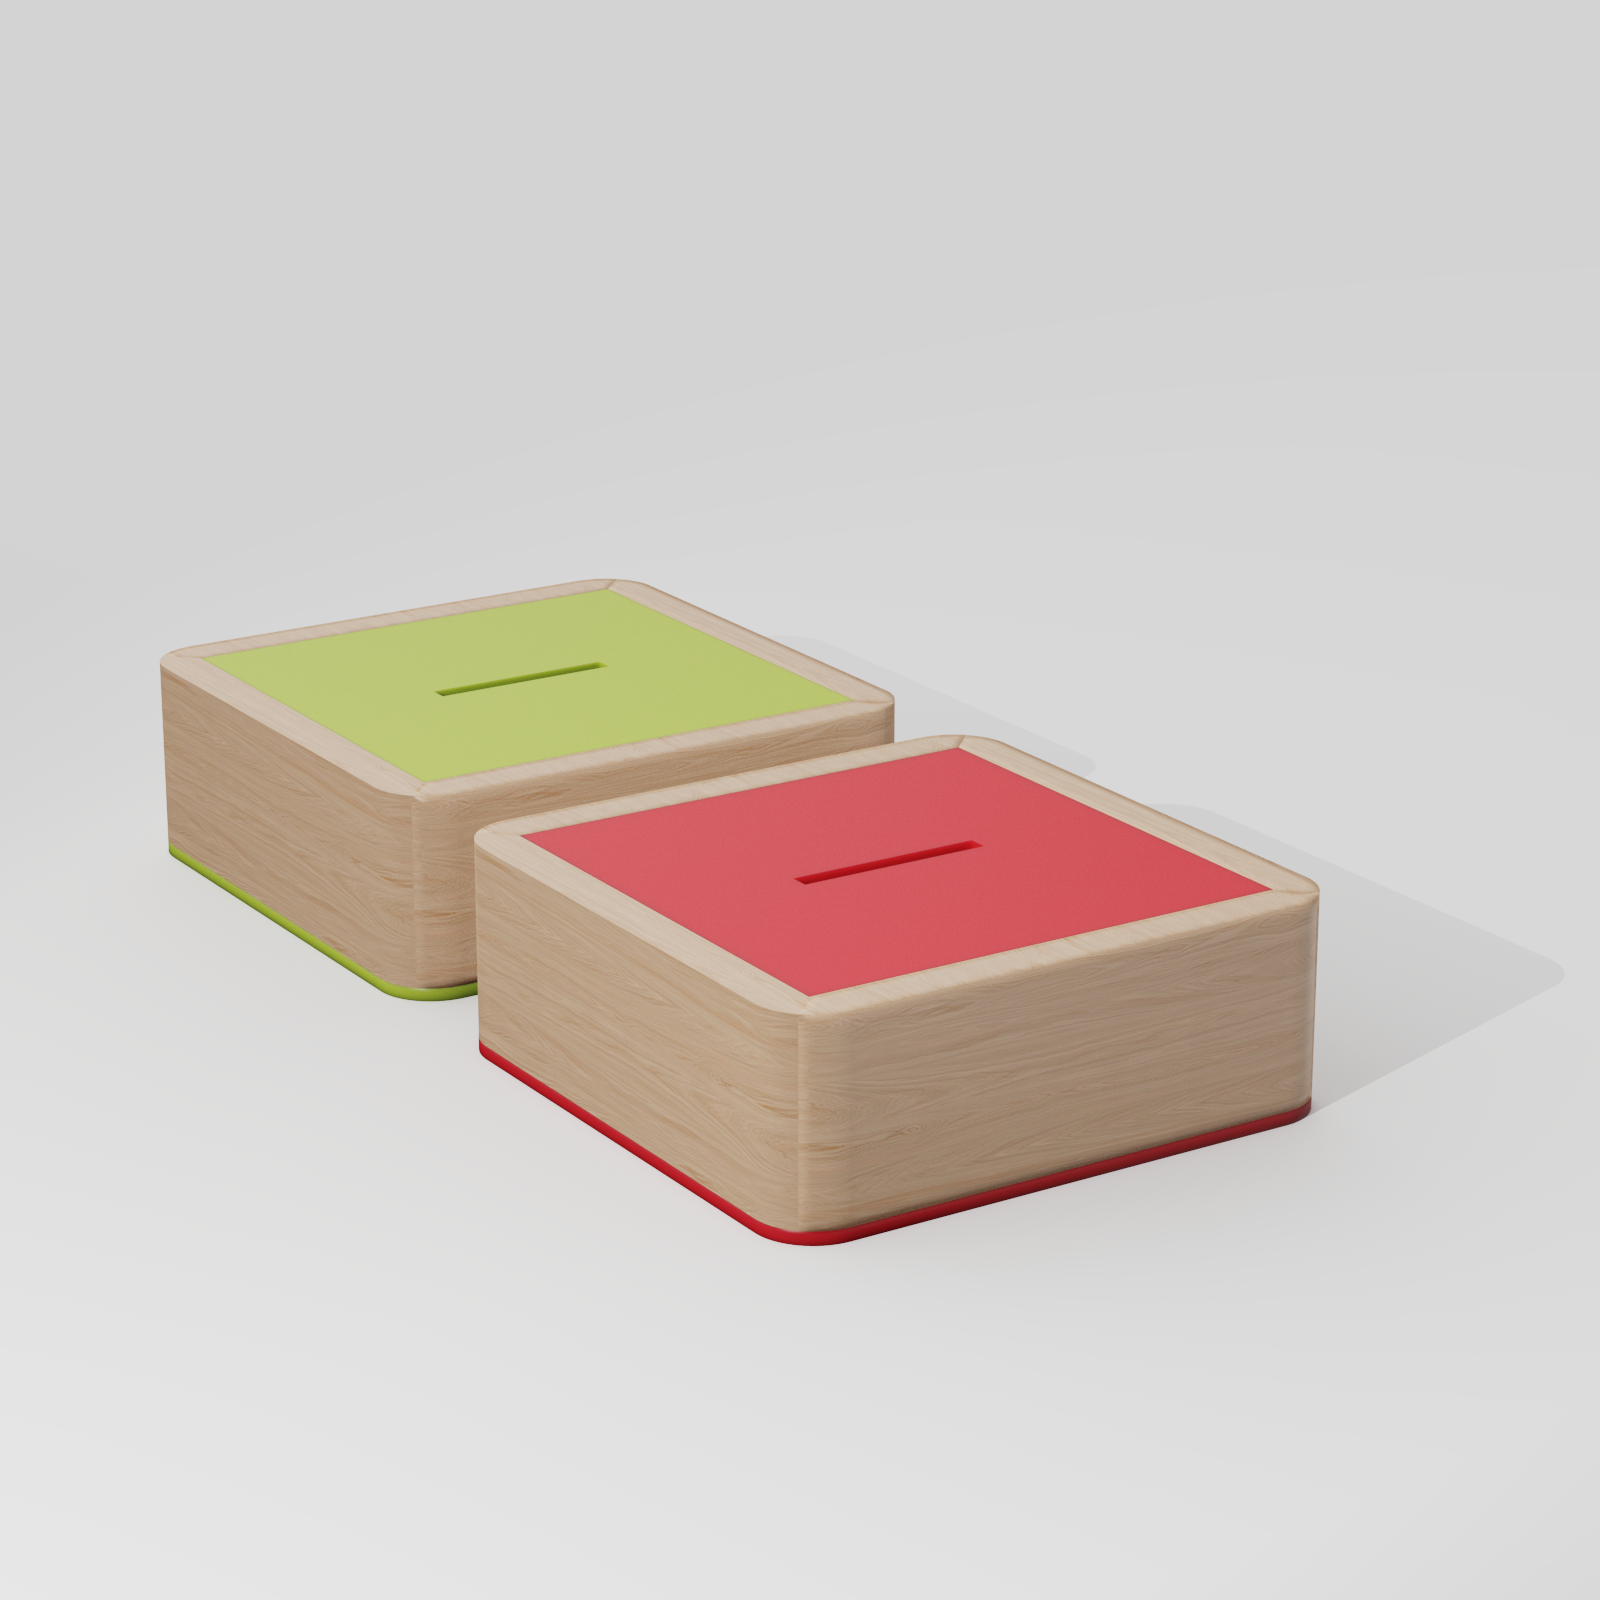
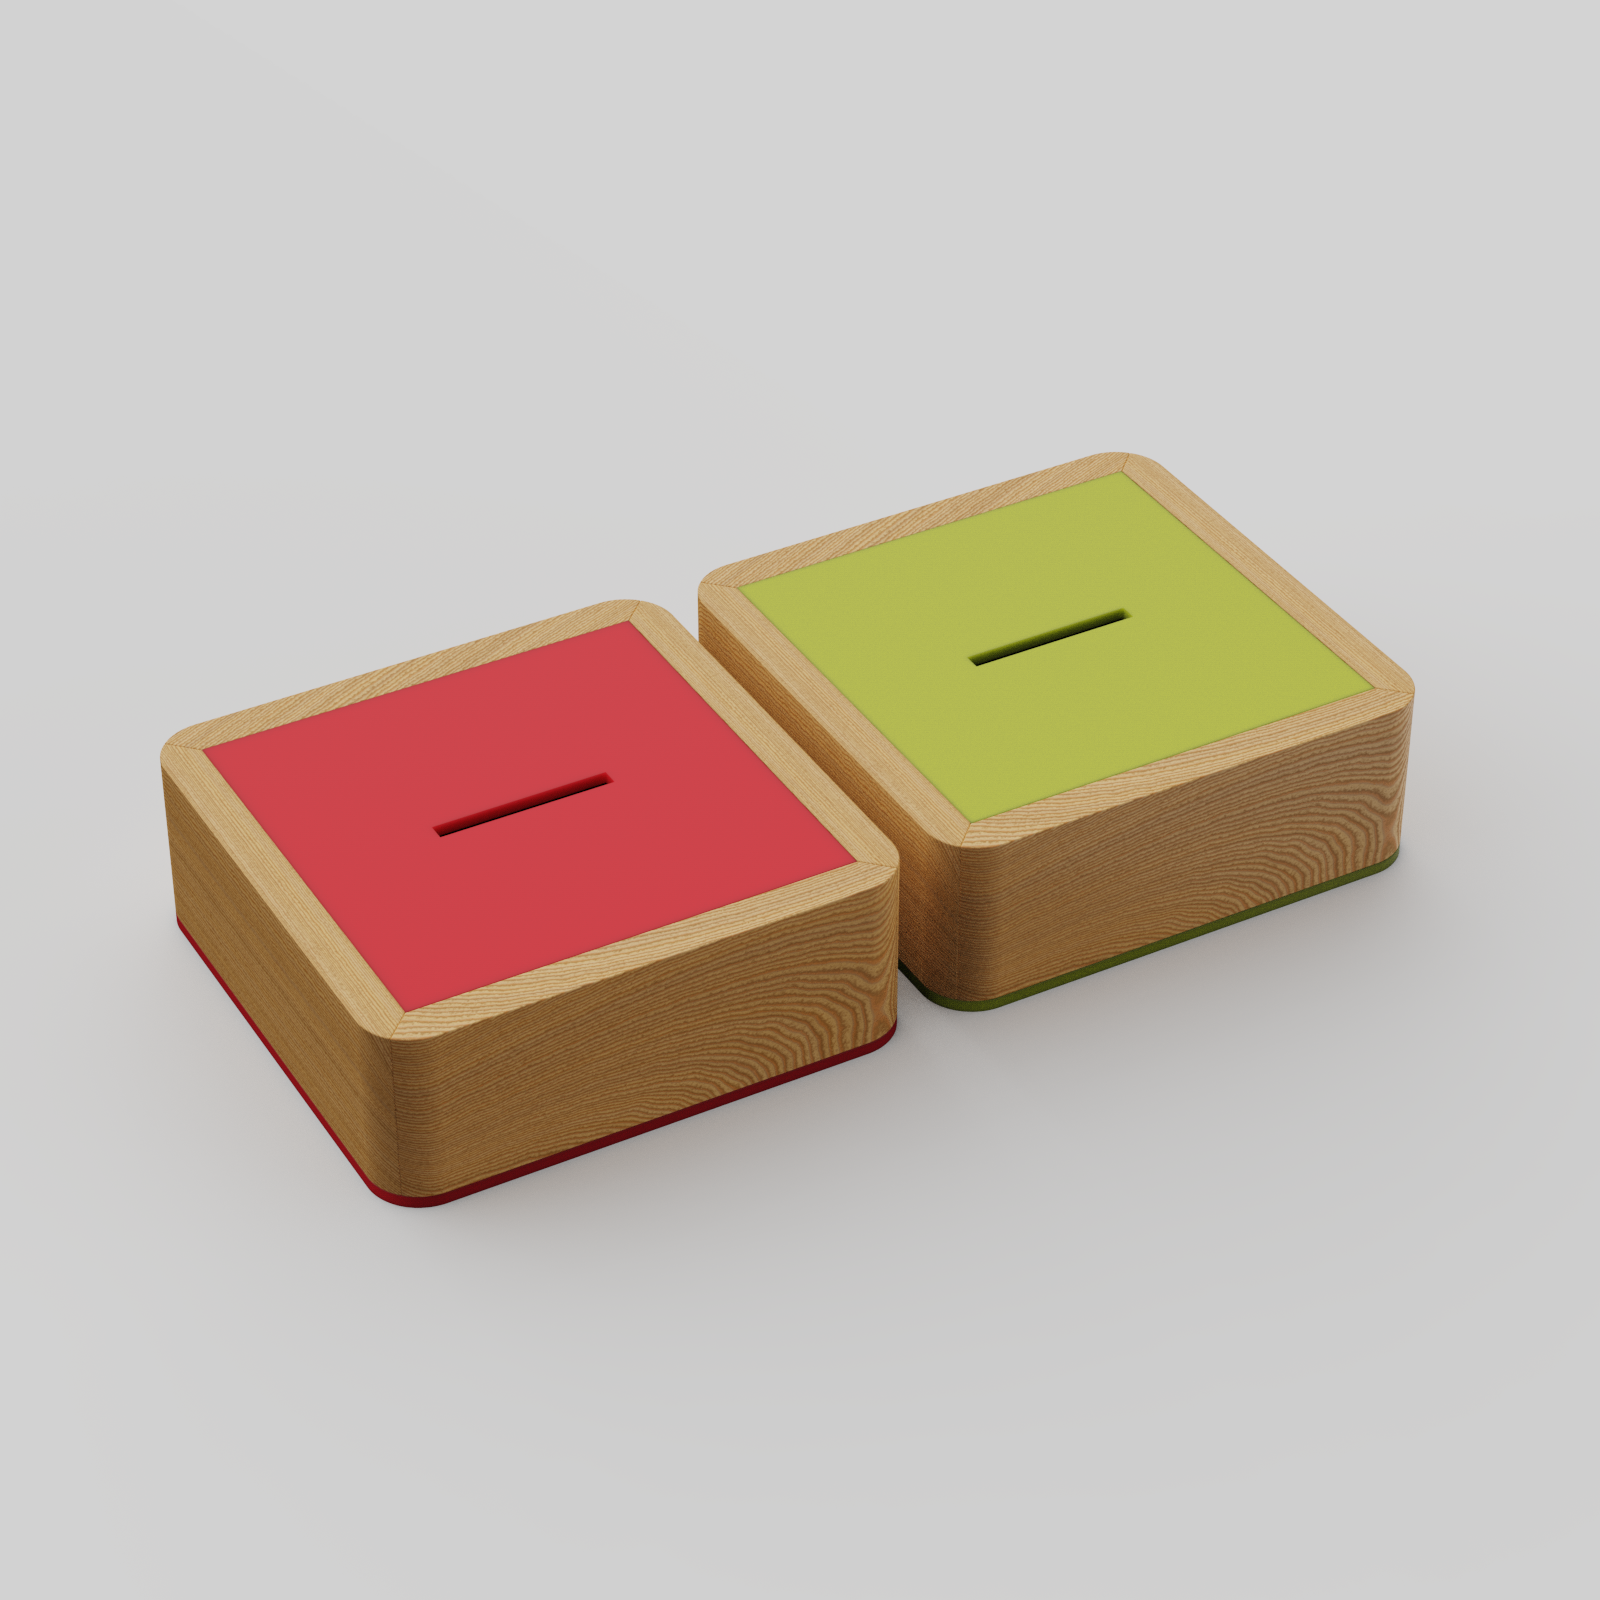
New projects

Changed region(s): [[0.0938, 0.2812, 0.9062, 0.8438]]

diff --git a/src/projects/hexa copy.jsx b/src/projects/hexa copy.jsx
@@ -1,0 +1,19 @@
+import React from "react";
+import ProjectLayout from '../components/ProjectLayout';
+
+export const metadata = {
+    id: "11",
+    slug: "display-bar",
+    title: "Display Bar",
+    category: "Product Design",
+    tags: ["Design Visualisation", "Product Design", "Lifestyle"],
+    year: "2026",
+    thumbnail: "/projects/display-bar/display-bar.png",
+    images: ["/projects/display-bar/display-bar.png", "/projects/display-bar/display-bar-1.png"],
+    description:
+        "Display Bar is a poster-hanging bar with lego blocks for hanging other items on top",
+};
+
+export default function FWD() {
+    return <ProjectLayout metadata={metadata} />;
+}

diff --git a/src/projects/hexa.jsx b/src/projects/hexa.jsx
@@ -1,0 +1,19 @@
+import React from "react";
+import ProjectLayout from '../components/ProjectLayout';
+
+export const metadata = {
+    id: "9",
+    slug: "hexa",
+    title: "Hexa Organizer",
+    category: "Product Design",
+    tags: ["Design Visualisation", "Product Design", "Lifestyle"],
+    year: "2026",
+    thumbnail: "/projects/hexa/hexa-organizer.png",
+    images: ["/projects/hexa/hexa-organizer.png", "/projects/hexa/hexa-organizer-1.jpeg"],
+    description:
+        "Hexagonal organizer for daily items",
+};
+
+export default function FWD() {
+    return <ProjectLayout metadata={metadata} />;
+}

diff --git a/src/projects/coin-box.jsx b/src/projects/coin-box.jsx
@@ -9,7 +9,7 @@ export const metadata = {
   tags: ["Packaging Design", "Prototype", "Lifestyle"],
   gridSize: "standard",
   year: "2025",
-  thumbnail: "/projects/coin-box/coin-box-2.png",
+  thumbnail: "/projects/coin-box/coin-box.png",
   images: [
     "/projects/coin-box/coin-box.png",
     "/projects/coin-box/coin-box-2.png",
